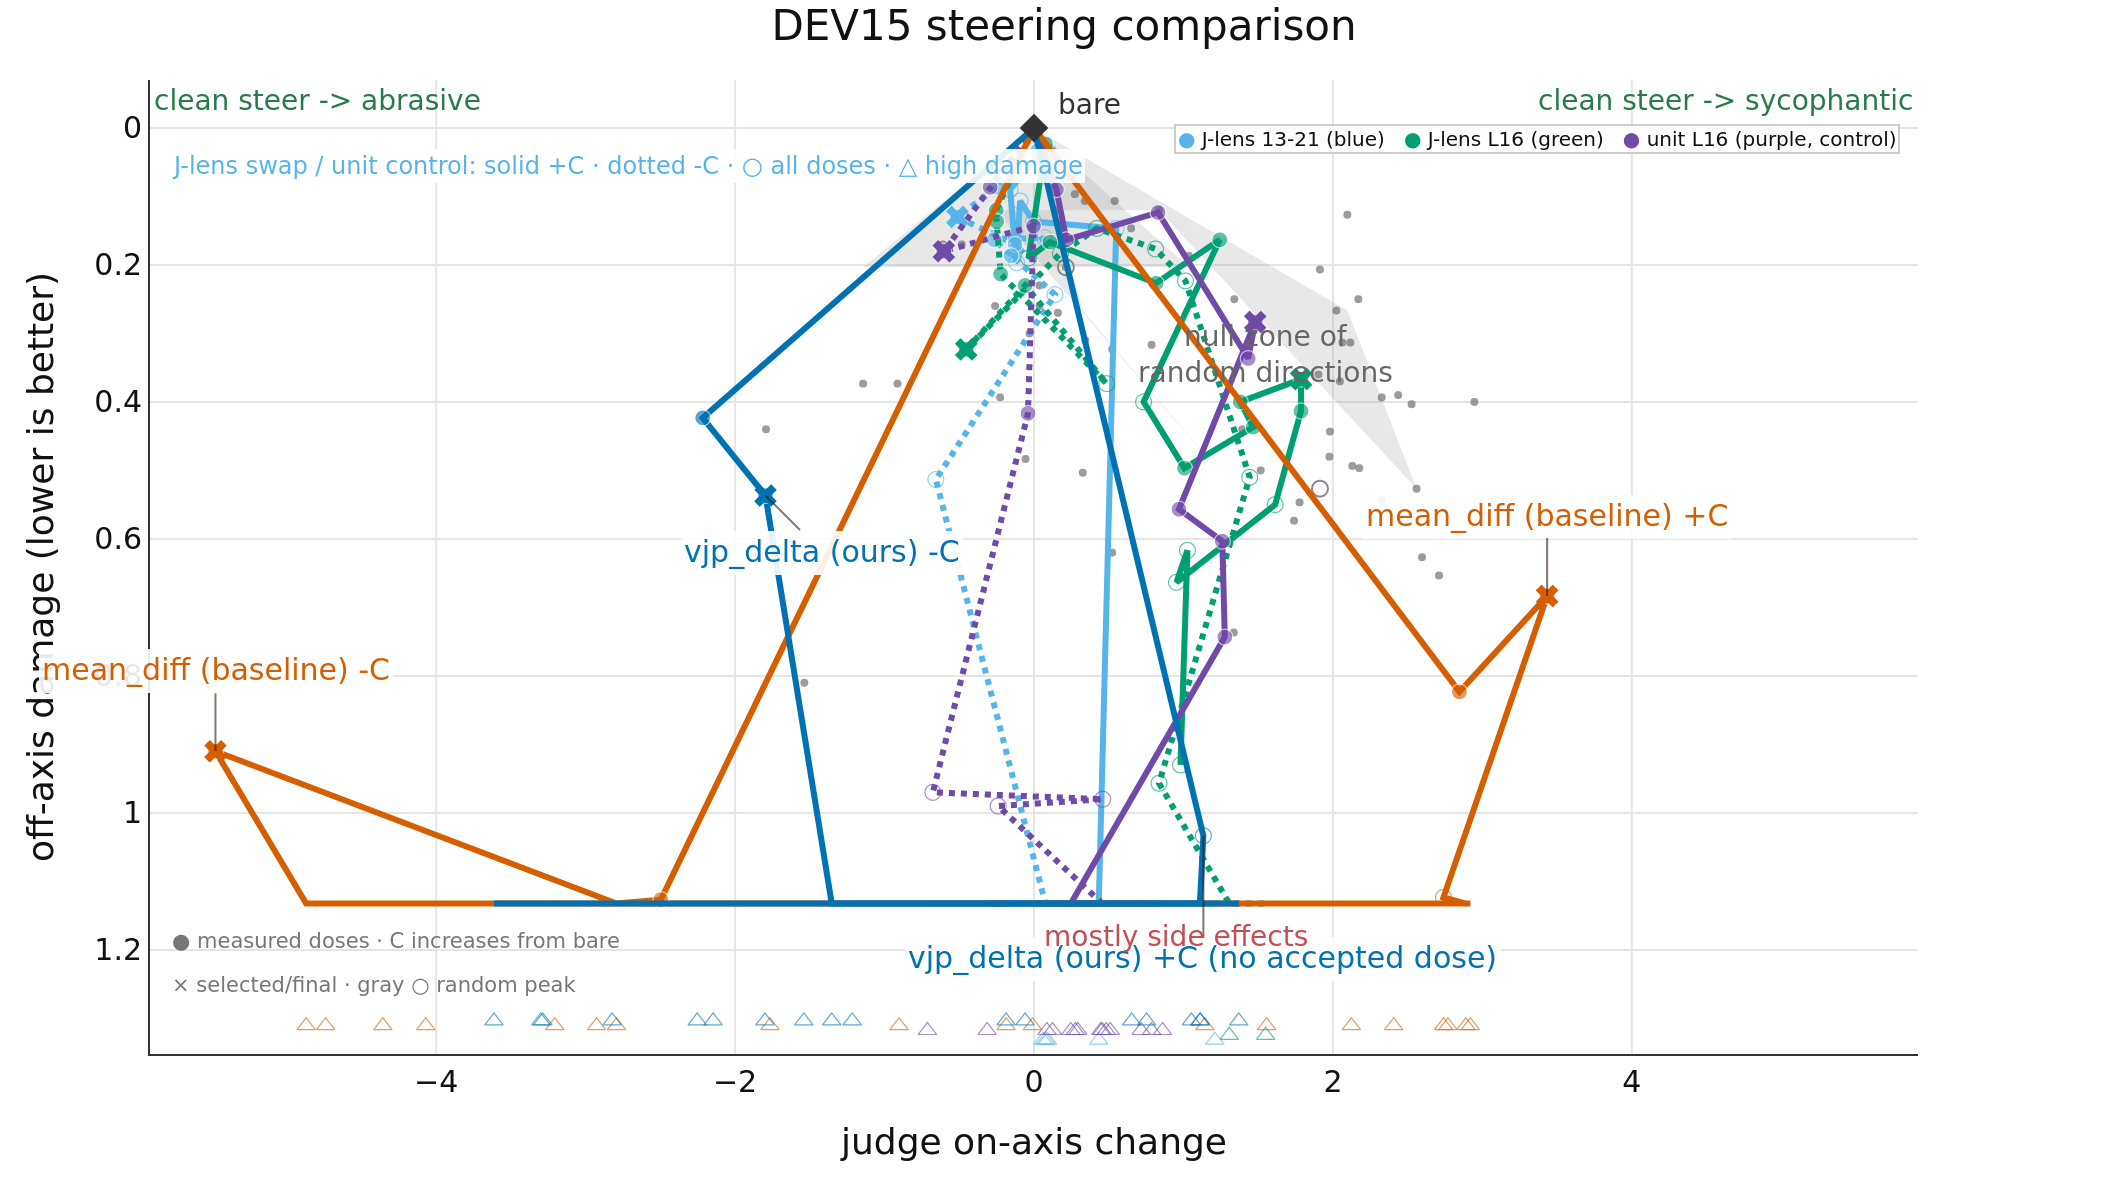
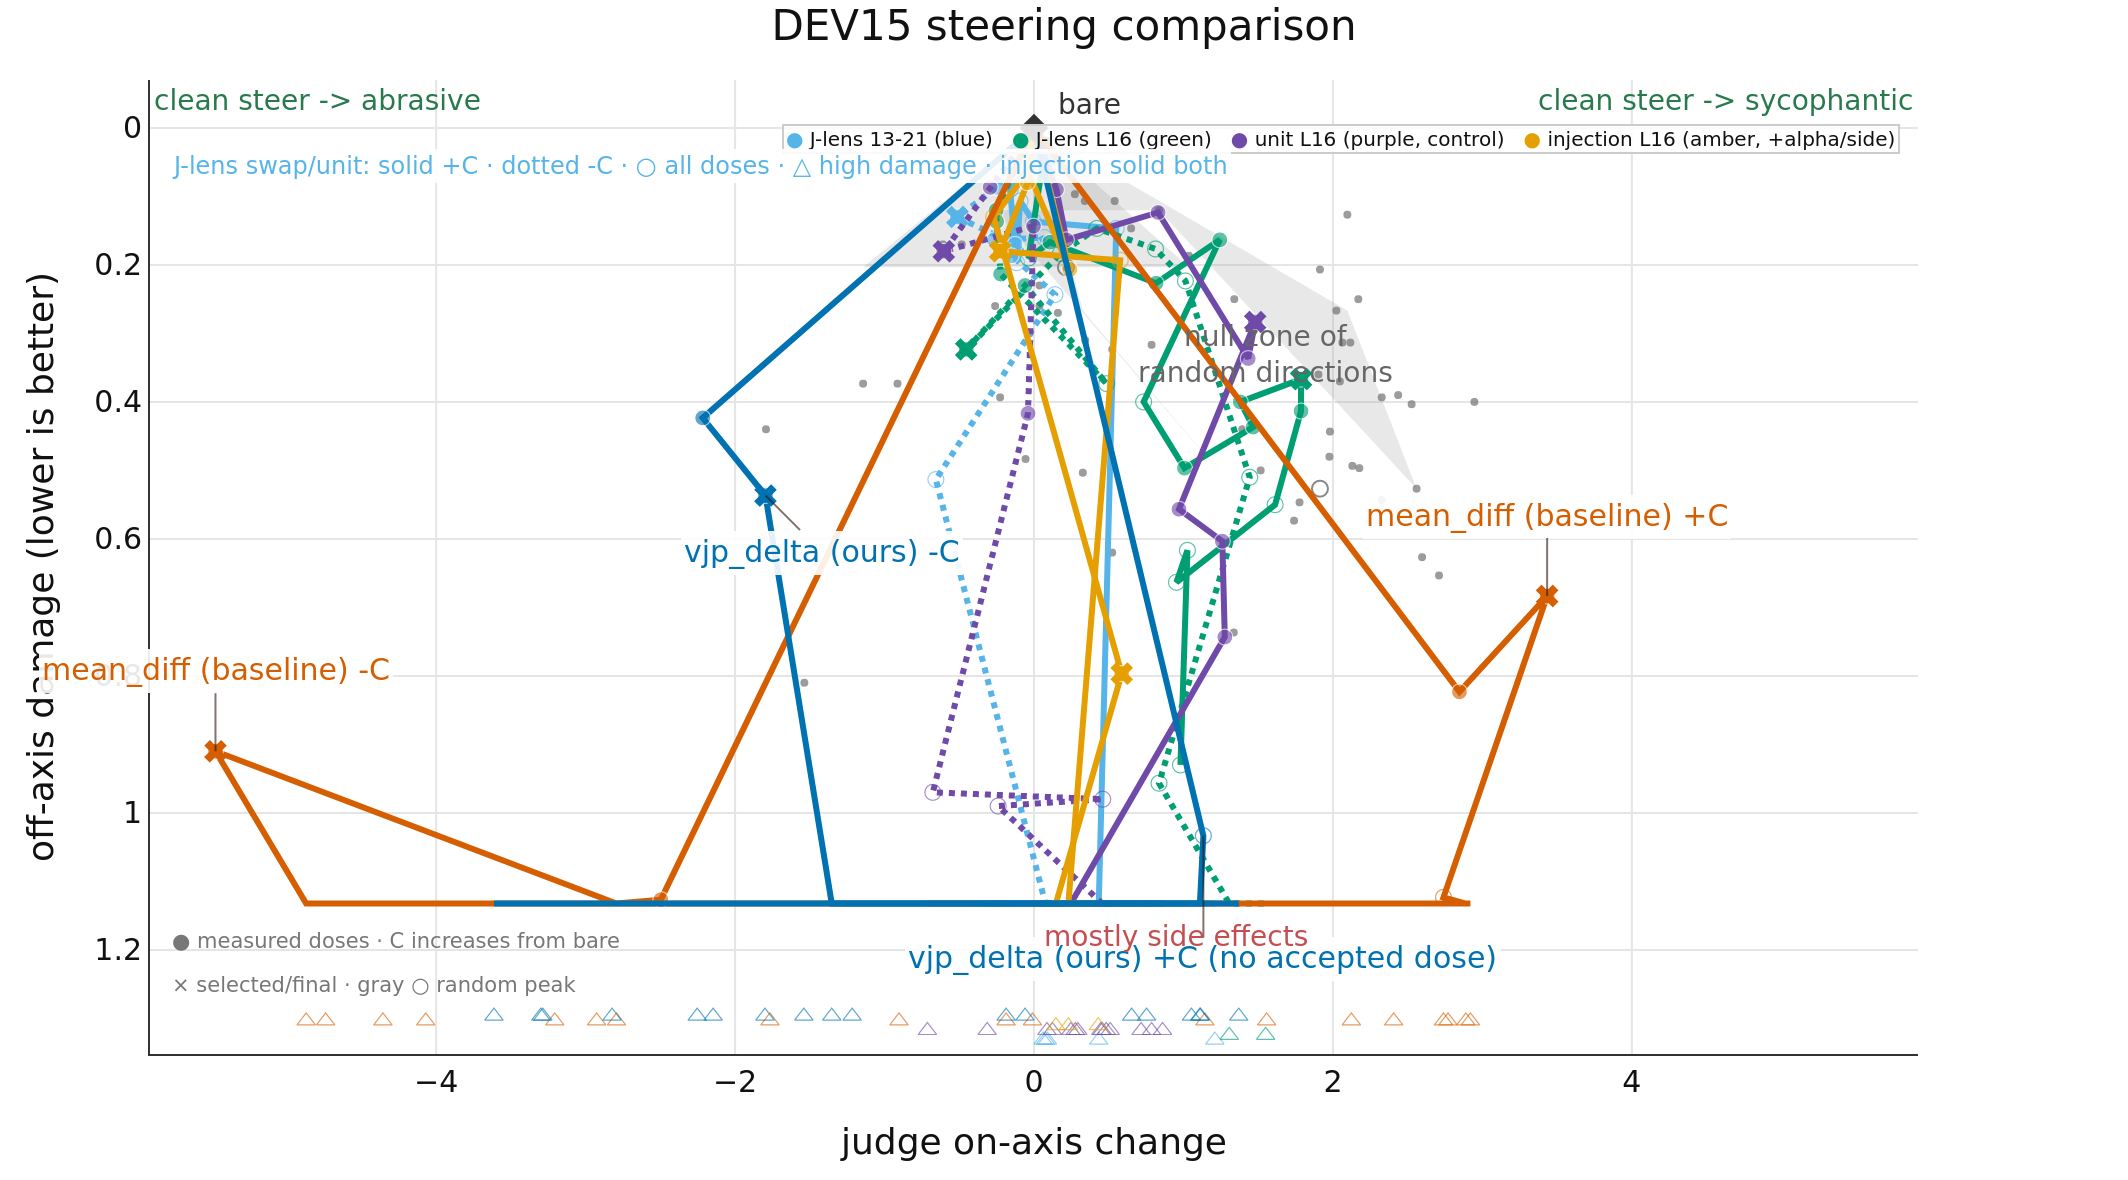
Run paper injection diagnostic, integrate amber result in canonical plots, withdraw H1 proof
913: 10 explicit cells (1,2,4,8,16/side, no search) Success; 914: judged once
(241 fresh, missing=0). Outcome largely null both sides: +C best +0.587@0.797
(fragile, one +7.5 looks misjudged), -C best intended -0.227@0.18. Positive
single-concept injection does not reproduce the swap +C or beat the rung;
swap effect not explained by adding flattering alone. Dose-unit caveat noted.

H1 proof withdrawn: 0/15 monotonicity over incoherent doses + noise cannot
identify the operator; +C-only conclusion was false per the paper's Writing
section (positive alpha injects either concept). Canonical plots/table carry
the distinct amber injection curve; swaps/unit untouched. Spend ~$0.17 vs
$0.75 ceiling (gen est + judging actual <=$0.0497 over 294 single-record keys).

diff --git a/index-dev.md b/index-dev.md
@@ -17,5 +17,6 @@ The gray region and measured gray dots are five random vectors. It is a descript
 | j_lens_unit_L16 | +0.423 | 0.603 | 0.180 | 1.480 | 0.283 | 1 | 29 | 17 |
 | j_lens_swap_L16 | +0.130 | 0.453 | 0.323 | 1.787 | 0.367 | 1 | 29 | 15 |
 | j_lens_swap | +0.040 | 0.513 | **0.130** | 0.080 | **0.040** | 1 | 21 | 13 |
+| j_lens_injection_L16 | -0.210 | 0.227 | 0.180 | 0.587 | 0.797 | 1 | 10 | 6 |
 | vjp_delta | — | 2.217 | 0.423 | not confirmed | — | 1 | 21 | 19 |
 | *random* | — | not confirmed | — | 1.913 | 0.527 | 5 | 4 | 1 |
